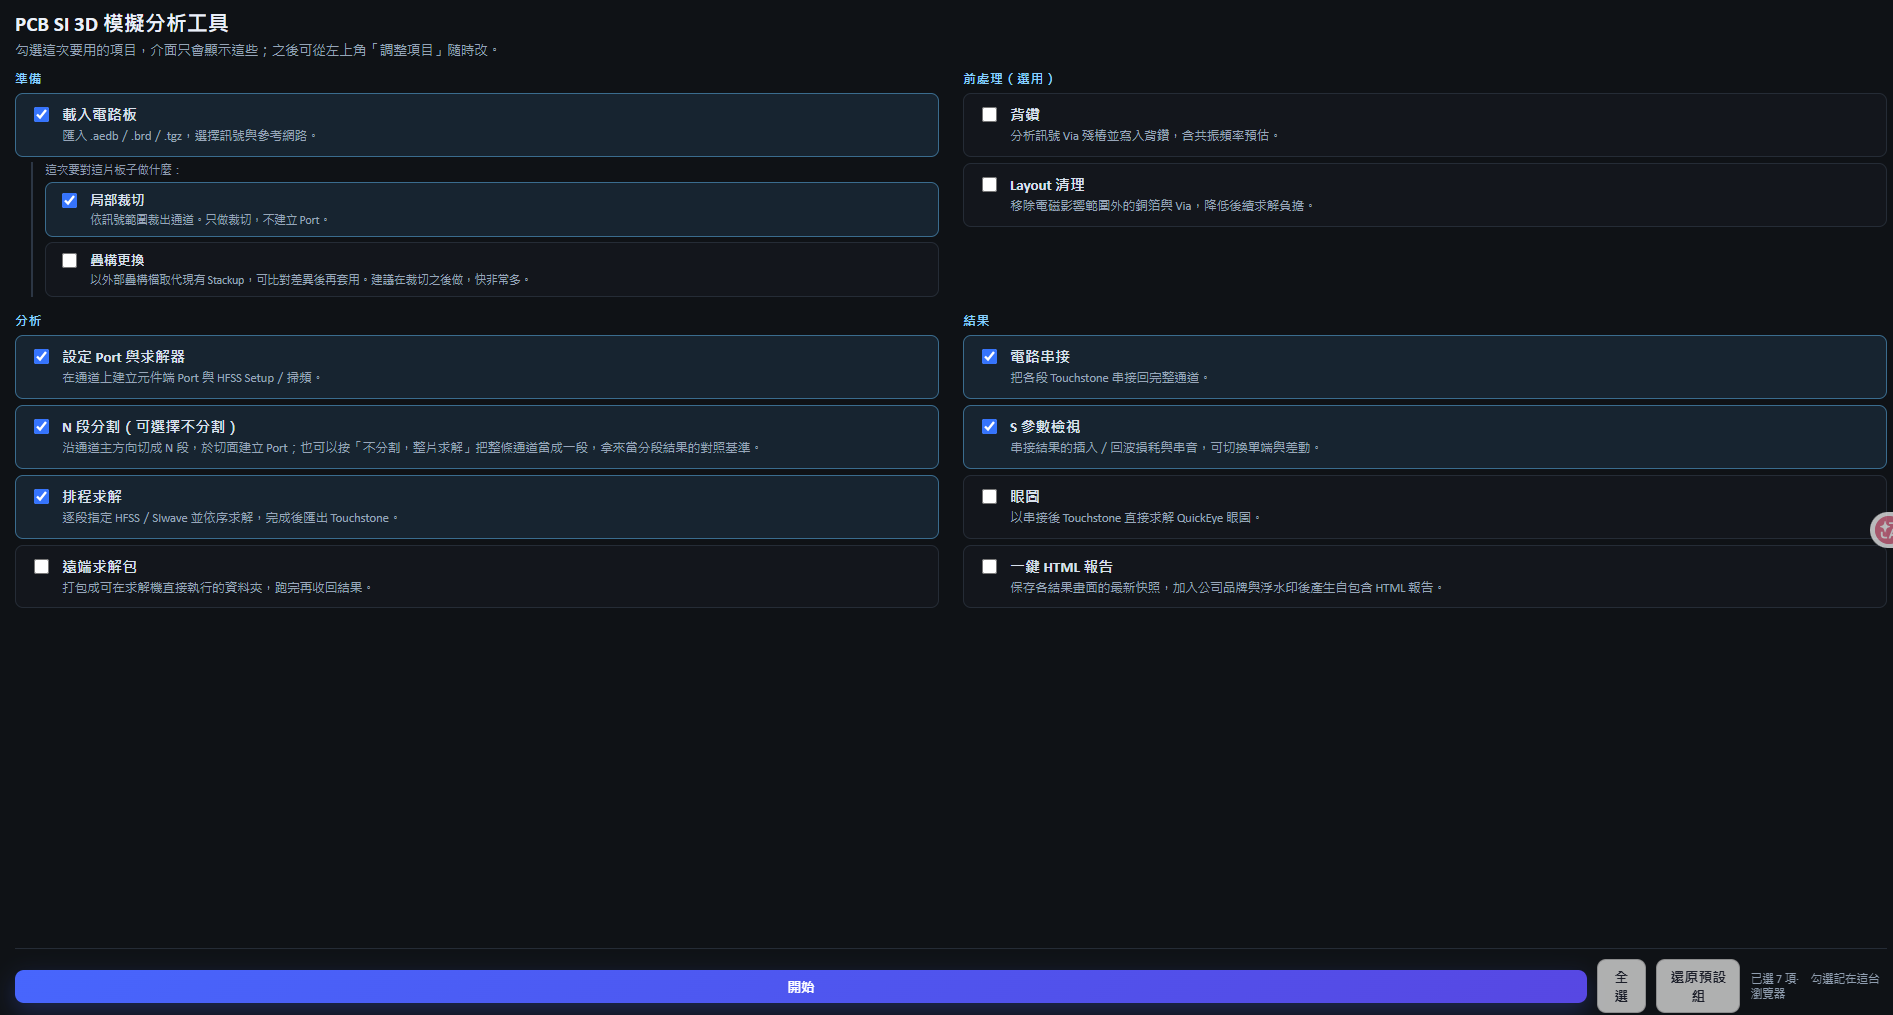
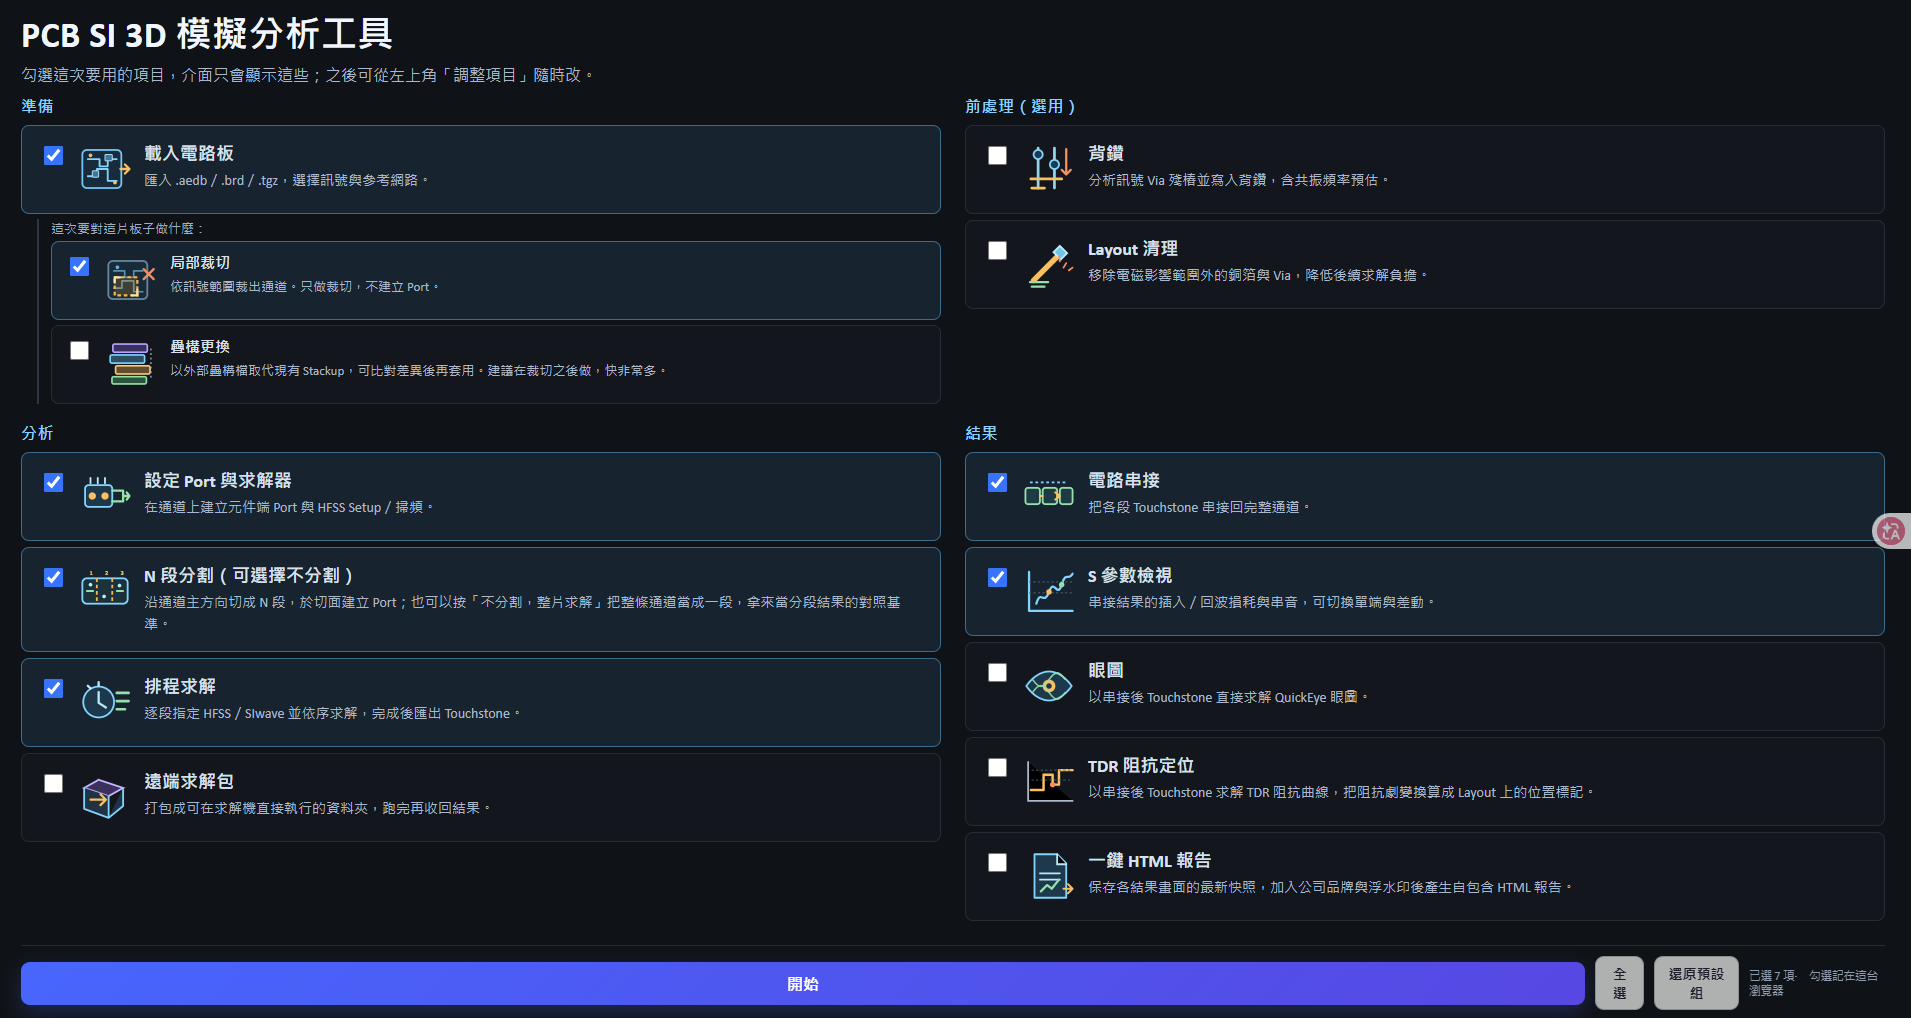
docs: 更新入口任務圖示畫面

diff --git a/docs/visual-assets.md b/docs/visual-assets.md
@@ -18,6 +18,7 @@ This document tracks the public visual assets used by the project README.
 - `graph/混合求解設定_20260803.png` — per-segment HFSS／SIwave selection controls
 - `graph/N段分割後推薦求解器示意_20260805.png` — preferred README hero; N-way split with safety overlay and per-segment solver regions (green = SIwave, purple = HFSS)
 - `graph/混合求解設定_20260805.png` — preferred mixed-solver table (three-segment demo, current UI)
+- `graph/入口畫面_20260810.png` — current task picker with enlarged title and complete task icon set
 
 For current documentation, prefer the 20260803 multi-layer, ten-segment, mixed-solver,
 and S-parameter comparison images over the retired score-based fidelity screenshots.
@@ -44,4 +45,3 @@ local workspace paths.
 3. End-to-end workflow diagram: Import → Select Nets → Cutout → Port → Segment → Solve → Analyze.
 
 Use Demo or anonymized data only. Store future README images under `graph/` or `docs/images/` and reference them with repository-relative paths.
-

diff --git a/操作說明.md b/操作說明.md
@@ -159,7 +159,7 @@ $env:PCBSI_AEDT_VERSION = "2026.1"
 工具開啟時會先顯示入口畫面，勾選這次要做的事；主畫面只會顯示對應的面板與檢視
 分頁，其餘一律隱藏。功能累積得多之後，一次攤開全部反而不容易找到要用的東西。
 
-![入口畫面：勾選這次要用的項目](./graph/入口畫面_20260810.png)
+![入口畫面：放大標題與完整任務圖示，勾選這次要用的項目](./graph/入口畫面_20260810.png)
 
 
 清單分四組（☑ 為首次啟動的預設）：

diff --git a/README.en.md b/README.en.md
@@ -63,7 +63,7 @@ The segmentation view overlays the engineering decision directly on the complete
 
 Import → Select Nets → Cutout → Port → Segment → Solve → Analyze
 
-![Task picker: tick what this run needs; the UI shows only those panels](./graph/入口畫面_20260810.png)
+![Task picker with enlarged title and task icons; the UI shows only selected panels](./graph/入口畫面_20260810.png)
 
 ![Full board layout with the layer panel](./graph/完整板Layout_20260809.png)
 

diff --git a/README.zh-TW.md b/README.zh-TW.md
@@ -63,7 +63,7 @@ Taiwan Auto-Design Co. (TADC)｜虎門科技股份有限公司
 
 Import → Select Nets → Cutout → Port → Segment → Solve → Analyze
 
-![入口畫面：勾選這次要用的項目，介面只顯示對應面板](./graph/入口畫面_20260810.png)
+![入口畫面：放大標題與完整任務圖示，介面只顯示對應面板](./graph/入口畫面_20260810.png)
 
 ![完整電路板 Layout 與右側圖層面板](./graph/完整板Layout_20260809.png)
 
